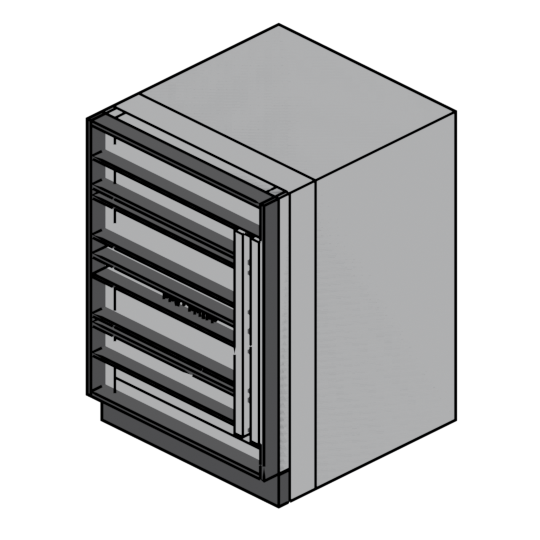
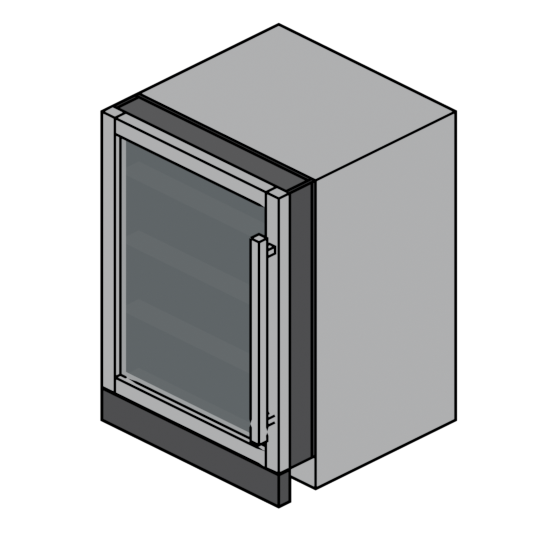
Fix the glass door interior building through the pane
A part's width runs toward the front of the appliance, so anchoring the
liner and shelves at the door's back face built them forward instead of
back: they came out 2 inches in FRONT of the door, straight through the
glass. Anchor the cavity parts at the back of the cavity, where their
width carries them forward to meet the door.

The cabinet also went dark whenever the door was glass, which turned the
whole unit black. It keeps its finish now, and the cavity gets its own
dark back panel so the interior still reads behind the glass.

Thumbnail re-rendered from the corrected model.

Changed region(s): [[0.1481, 0.1778, 0.5926, 0.9481]]

diff --git a/product_libraries/common/appliance_geo.py b/product_libraries/common/appliance_geo.py
@@ -844,7 +844,12 @@ def _build_dishwasher(cage_obj, opts):
 
 def _under_counter_interior(cg, opts, kind, dark, z0, depth):
     """Shelves or wine slats in the cavity behind a glass door. Their
-    spacing is driven, so they stay evenly divided as the box grows."""
+    spacing is driven, so they stay evenly divided as the box grows.
+
+    Anchored at the BACK of the cavity: a part's width runs toward the
+    front (Mirror Y), so starting one at the door face would build it out
+    through the glass.
+    """
     if kind == 'ICE':
         return
     if kind == 'WINE':
@@ -855,10 +860,10 @@ def _under_counter_interior(cg, opts, kind, dark, z0, depth):
         count = max(1, int(opts.get('shelf_count', 3)))
         thickness = inch(0.5)
         name = "Shelf"
+    y_back = '-dim_y + %f' % (UNDER_COUNTER_DOOR_T + depth)
     for i in range(count):
         fraction = (i + 1.0) / (count + 1.0)
-        _flat(cg, "%s %d" % (name, i + 1), LINER_T,
-              '-dim_y + %f' % UNDER_COUNTER_DOOR_T,
+        _flat(cg, "%s %d" % (name, i + 1), LINER_T, y_back,
               '%f + (dim_z - %f) * %f' % (z0, z0, fraction),
               'dim_x - %f' % (2.0 * LINER_T), depth - inch(0.25),
               thickness, dark)
@@ -866,17 +871,23 @@ def _under_counter_interior(cg, opts, kind, dark, z0, depth):
 
 def _under_counter_liner(cg, dark, z0, depth):
     """Line the cavity so the recess reads as a box rather than a hole
-    with open sides."""
-    y_front = '-dim_y + %f' % UNDER_COUNTER_DOOR_T
+    with open sides. Anchored at the back of the cavity, for the reason
+    in _under_counter_interior."""
+    y_back = '-dim_y + %f' % (UNDER_COUNTER_DOOR_T + depth)
     height = 'dim_z - %f' % z0
-    _side(cg, "Liner Left", 0.0, y_front, z0, height, depth, LINER_T, dark,
+    _side(cg, "Liner Left", 0.0, y_back, z0, height, depth, LINER_T, dark,
           plus_x=True)
-    _side(cg, "Liner Right", 'dim_x', y_front, z0, height, depth, LINER_T,
+    _side(cg, "Liner Right", 'dim_x', y_back, z0, height, depth, LINER_T,
           dark, plus_x=False)
-    _flat(cg, "Liner Bottom", LINER_T, y_front, z0,
+    _flat(cg, "Liner Bottom", LINER_T, y_back, z0,
           'dim_x - %f' % (2.0 * LINER_T), depth, LINER_T, dark)
-    _flat(cg, "Liner Top", LINER_T, y_front, 'dim_z',
+    _flat(cg, "Liner Top", LINER_T, y_back, 'dim_z',
           'dim_x - %f' % (2.0 * LINER_T), depth, LINER_T, dark, down=True)
+    # The cabinet keeps its finish on the outside, so the cavity needs
+    # its own dark back rather than showing the case face through the
+    # glass.
+    _front(cg, "Liner Back", 0.0, z0, 'dim_x', height, LINER_T, dark,
+           y=y_back, proud=True)
 
 
 def _glass_door(cg, opts, mat, glass, metal, z0, height, door_t):
@@ -912,7 +923,7 @@ def _build_under_counter(cage_obj, opts):
 
     _flat(cg, "Under Counter Case", 0.0, 0.0, 0.0, 'dim_x',
           'dim_y - %f' % (door_t + interior), 'dim_z',
-          dark if (panel_ready or glass_door) else mat)
+          dark if panel_ready else mat)
 
     if kick_h > 0.0:
         _front(cg, "Under Counter Grille", 0.0, 0.0, 'dim_x', kick_h,
